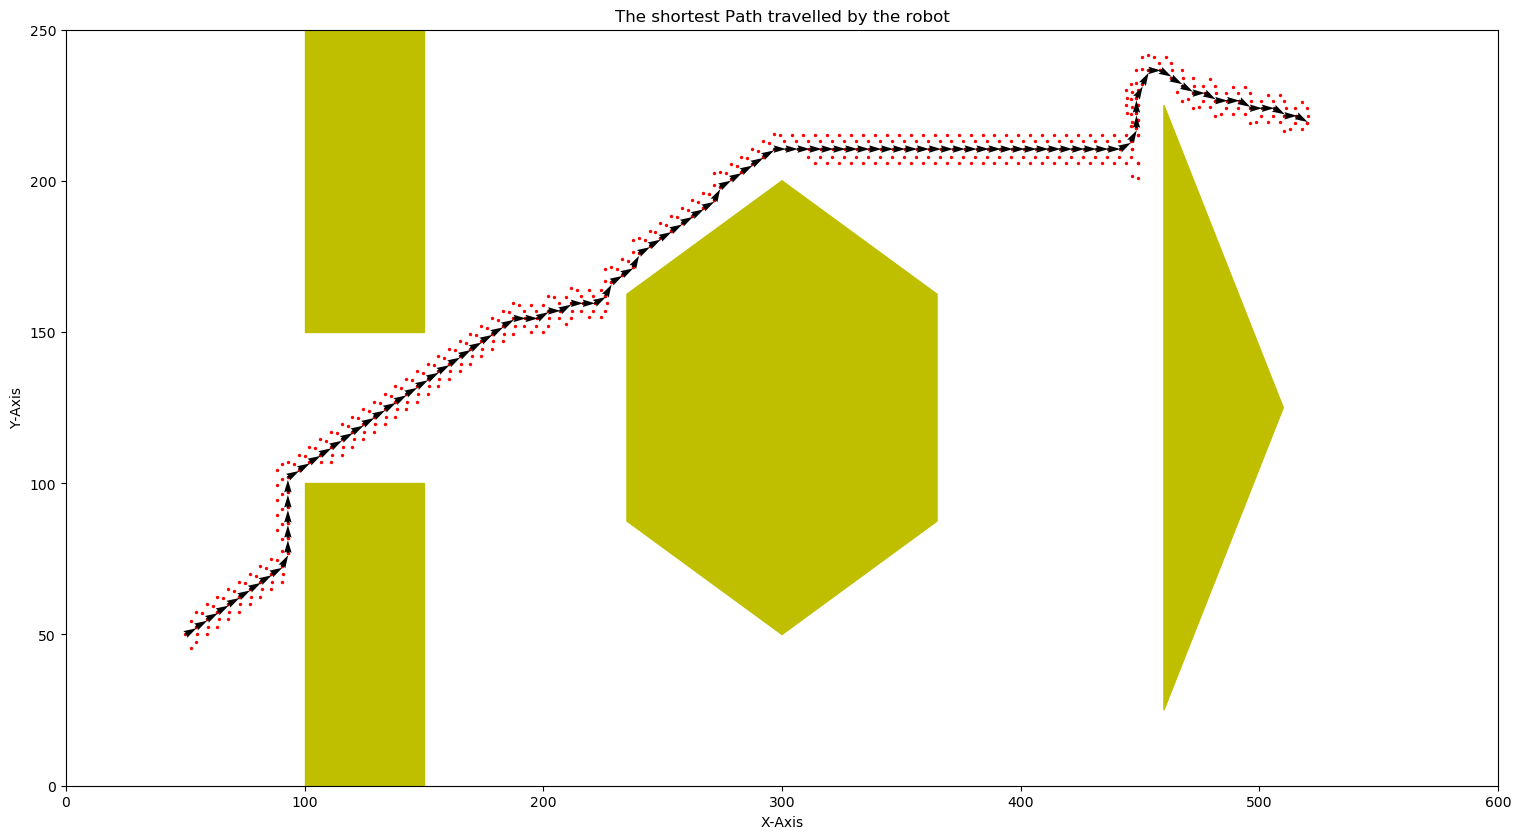
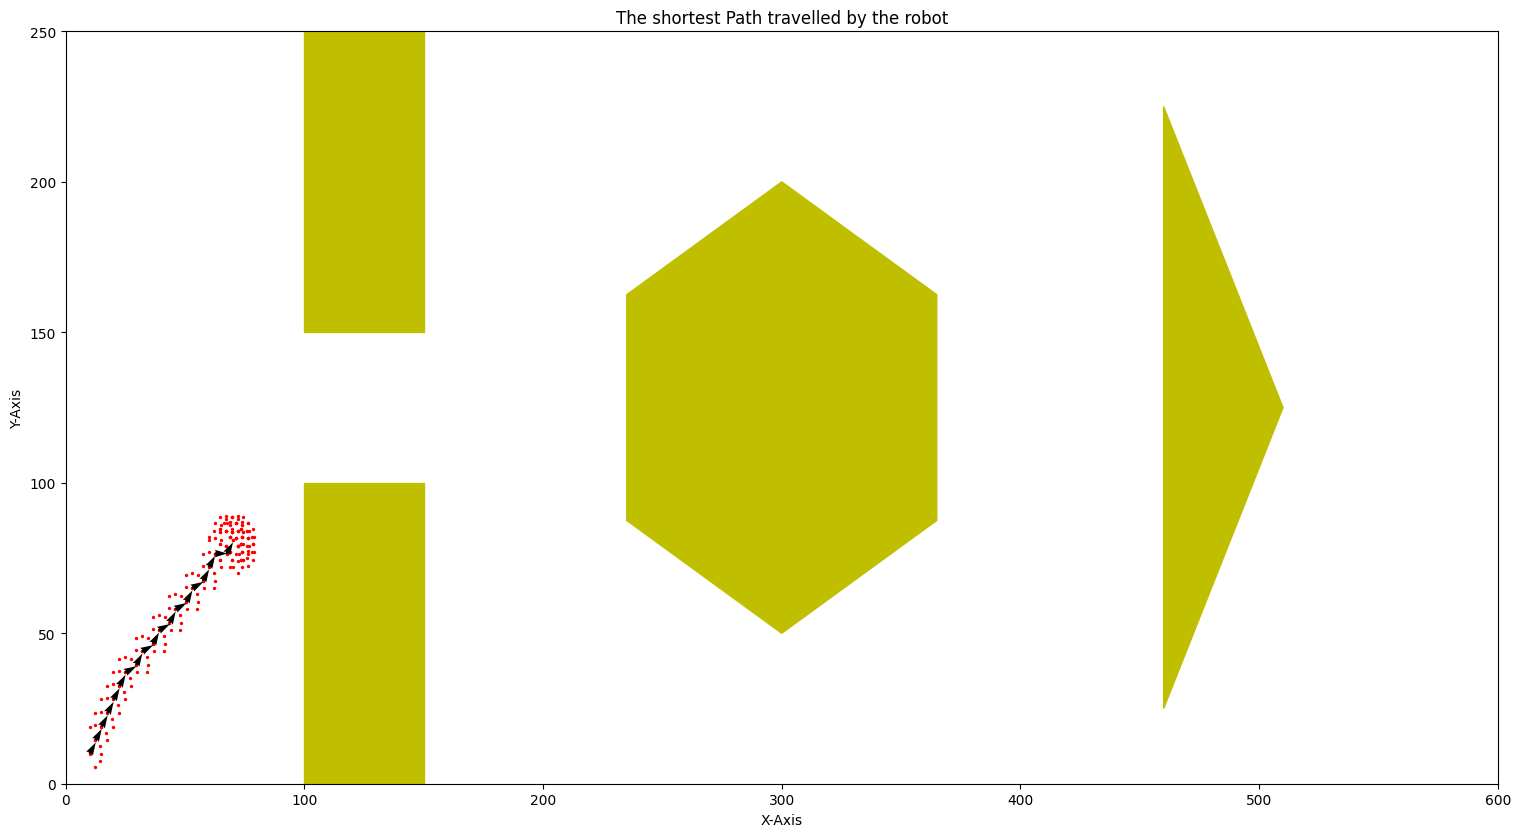
new file created with changes

diff --git a/a_star_sarin_aditi copy.py b/a_star_sarin_aditi copy.py
@@ -1,0 +1,302 @@
+# Git Hub Link: https://github.com/sarinann/A-star-algorithm-for-obstcle-avoidance.git
+
+import matplotlib.pyplot as plt
+import matplotlib.patches as patch
+from queue import PriorityQueue
+import time
+import copy
+import numpy as np
+from math import dist
+import cv2 as cv
+import math
+
+print("Hi!! \n")
+start_time = time.time()
+threshold = 0.5
+robot_radius = int(input("Enter the radius of the robot \n"))
+print("____________________________________________________________")
+step_size = int(input("Enter the stepsize for the robot. Choose from 1 to 10 \n"))
+print("______________________________________________________________________")
+while step_size not in range(1,11):
+    step_size = int(input("\n Enter again a step size from 1 to 10 \n"))
+    print("______________________________________________________________________")
+clearance = int(input("Enter the clearance to be maintained around the obstacles \n"))
+print("______________________________________________________________________")
+
+ul = int(input("Enter the velocity of left wheel \n"))
+print("______________________________________________________________________")
+
+ur = int(input("Enter the velocity of right wheel \n"))
+print("______________________________________________________________________")
+
+#Total amount the boundary needs to be bloated by taking into account robot radius and clearance.
+total_bloat = clearance + robot_radius
+
+# Using OpenCV libraries to create shapes of the polynomials of the obstacles and their map
+def create_polynomial(image, vertices, color, type):
+    vertices = vertices.reshape((-1,1,2))
+    if type == "polygon":
+        cv.fillPoly(image,[vertices],color)
+    else:
+        cv.polylines(image,[vertices],True,color, thickness = total_bloat)
+
+def create_map():
+    #initializing the map
+    map = np.zeros((250,600, 3), dtype="uint8") 
+    white = (255,255,255)
+    # Hexagon
+    hexagon = np.array([[300,50], [365, 87.5], [365,162.5], 
+                       [300,200], [235, 162.5], [235, 87.5]], np.int32)
+    create_polynomial(map, hexagon, white, "polygon")
+    hexagon_bloat = np.array([[300,45], [369, 87.5], [369,162.5], 
+                          [300,205], [235, 162.5], [235, 87.5]], np.int32)
+    create_polynomial(map, hexagon_bloat, white, "Border")
+
+    # Triangle
+    traingle = np.array([[460, 25], [460, 225], [510,125]], np.int32)
+    create_polynomial(map, traingle, white, "polygon")
+    triangle_bloat = np.array([[456, 20], [456, 230], [514,125]], np.int32)
+    create_polynomial(map, triangle_bloat, white, "Border") 
+
+    # Rectangle
+    cv.rectangle(map, (100,0), (150,100), white, -1)
+    cv.rectangle(map, (100,0), (150,100), white, total_bloat)
+    cv.rectangle(map, (100,150), (150,250), white, -1)
+    cv.rectangle(map, (100,150), (150, 250), white, total_bloat)
+    cv.rectangle(map, (-1, -1), (601, 251), white, total_bloat)     
+
+    return cv.resize(map, (int(600/threshold),int(250/threshold)))
+
+#Creating the map and flipping it about Y-Axis to match the origin points 
+map = create_map()
+
+map = cv.flip(map, 0)
+
+def if_obstacle(node):
+    X = int(node[1]/threshold)
+    Y = int(node[0]/threshold)
+  
+    if map[X, Y].any() == np.array([0, 0, 0]).all():
+        bool_value = False
+    elif map[X, Y].all() == np.array([255, 255, 255]).all():
+        bool_value = True
+    else:
+        bool_value = True     
+
+    return bool_value
+#Function to create a node with parameters needed for the algorithm
+def a_star_node_create(total_cost, cost_to_come, parent, node):
+    return (total_cost, cost_to_come, parent, node)
+
+start_point_x = input("Enter the x-coordinate of the start point \n")
+start_point_y = input("Enter the y-coordinate of the start point \n")
+start_point_theta = input("Enter the start orientation \n")
+start = (int(start_point_x), int(start_point_y), int(start_point_theta))
+while if_obstacle((start[0], start[1])):
+    print("These coordinates lie inside the obstacle space. Please enter new values\n")
+    start_point_x = input("Enter the x-coordinate of the start point \n")
+    start_point_y = input("Enter the y-coordinate of the start point \n")
+    start_point_theta = input("Enter the start orientation \n")
+    start = (int(start_point_x), int(start_point_y), int(start_point_theta))
+print("_____________________________________________________________________________")
+goal_point_x = input("Enter the x-coordinate of the goal point \n")
+goal_point_y = input("Enter the y-coordinate of the goal point \n")
+goal_point_orien = input("Enter the goal orientation \n")
+goal = (int(goal_point_x), int(goal_point_y), int(goal_point_orien))
+while if_obstacle((goal[0], goal[1])):
+    print("These coordinates lie inside the obstacle space. Please enter new values\n")
+    goal_point_x = input("Enter the x-coordinate of the goal point \n")
+    goal_point_y = input("Enter the y-coordinate of the goal point \n")
+    goal_point_orien = input("Enter the goal orientation \n")
+    goal = (int(goal_point_x), int(goal_point_y), int(goal_point_orien))
+print("_____________________________________________________________________________")
+goal_x = goal[0]
+goal_y = goal[1]
+
+
+def cost(Xi,Yi,Thetai,UL,UR):
+    t = 0
+    r = 0.038
+    L = 0.354
+    dt = 0.1
+    Xn=Xi
+    Yn=Yi
+    Thetan = 3.14 * Thetai / 180
+
+
+# Xi, Yi,Thetai: Input point's coordinates
+# Xs, Ys: Start point coordinates for plot function
+# Xn, Yn, Thetan: End point coordintes
+    D=0
+    while t<1:
+        t = t + dt
+        Xs = Xn
+        Ys = Yn
+        Delta_Xn = 0.5*r * (UL + UR) * math.cos(Thetan) * dt
+        Delta_Yn = 0.5*r * (UL + UR) * math.sin(Thetan) * dt
+        Thetan += (r / L) * (UR - UL) * dt
+        D=D+ math.sqrt(Delta_Xn**2 + Delta_Yn**2)
+    Thetan = 180 * (Thetan) / 3.14
+    return Xn, Yn, Thetan, D   
+
+
+
+# Defining the 5 moments spanning 120deg  
+def one(node, left_speed, right_speed):
+    modified_node = copy.deepcopy(node)
+    modi_x, modi_y, modi_theta, c2c = cost(modified_node[3][0], modified_node[3][1], modified_node[3][2], left_speed, right_speed)
+
+    parent_node = modified_node[3]
+
+    modi_theta = rounded_value(modi_theta)
+    modi_x = rounded_value(modi_x)
+    modi_y = rounded_value(modi_y)
+    modified_node = (modi_x, modi_y, modi_theta)
+
+    cost_to_go = dist((modi_x, modi_y), (goal_x, goal_y))
+
+    total_cost = c2c + cost_to_go
+
+    passed_node = a_star_node_create(
+        total_cost, c2c, parent_node, modified_node)
+    return passed_node
+
+def rounded_value(input):
+    if input % 0.5 != 0:
+        input = (np.round(input/threshold))*threshold
+    return input
+
+plotting = {}
+def Astar_algoritm(start, goal):
+
+    initial_cost_to_go = np.sqrt((goal[0]-start[0])**2 + (goal[1]-start[1])**2)
+
+    initial_cost = initial_cost_to_go + 0
+
+    zeros = np.zeros((int(600/threshold), int(250/threshold), 12))
+
+    start_pose = a_star_node_create(initial_cost, 0, None, start)
+
+    open_list = PriorityQueue()
+    open_list.put(start_pose)
+
+    visited_nodes_x = []
+    visited_nodes_y = []
+    visited_close_list = {}
+
+    while not open_list.empty():
+
+        current_node = open_list.get()
+        if current_node[3] in visited_close_list:
+            continue
+
+        visited_nodes_x.append(current_node[3][0])
+        visited_nodes_y.append(current_node[3][1])
+
+        visited_close_list[current_node[3]] = current_node[2]
+        theta = current_node[3][2]
+
+        distance_to_goal = np.sqrt(
+            (goal[0] - current_node[3][0])**2 + (goal[1] - current_node[3][1])**2)
+
+        if distance_to_goal <= 1.5:
+            print("Goal has been reached!!!!")
+            print("_____________________________________________________________________________")
+            generated_path = []
+            current_pose = current_node[3]
+            while current_pose is not None:
+                generated_path.append(current_pose)
+                current_pose = visited_close_list[current_pose]
+            # Reverse the path and return
+            return generated_path[::-1], visited_nodes_x, visited_nodes_y
+
+        actions = [[0, ul], [ul,0], [ul, ul], [0, ur], [ur, 0], [ur, ur], [ul, ur], [ur, ul]]
+
+        for action in actions:
+            # Get the modified node and its total cost and cost to come from current node
+            child_node = one(current_node, action[0], action[1])
+            temp_node = child_node[3]
+            # If the node is not in the the visited closed dictionary, then update the parent based on cost
+            if zeros[int(temp_node[0]/threshold)][int(temp_node[1]/threshold)][int(temp_node[2]/30)] == 0:
+                zeros[int(temp_node[0]/threshold)][int(temp_node[1]/threshold)
+                                            ][int(temp_node[2]/30)] = 1
+                if if_obstacle((temp_node[0], temp_node[1])) == False:
+                    total_cost = child_node[0]
+                    if child_node[3] not in visited_close_list:
+                        for i in range(0, (open_list.qsize())):
+                            if open_list.queue[i][3] == child_node[3] and open_list.queue[i][0] > total_cost:
+                                open_list.queue[i][2] = child_node[2]
+                        open_list.put(child_node)
+                        visited_nodes_x.append(child_node[3][0])
+                        visited_nodes_y.append(child_node[3][1])
+    return None
+
+
+generated_path, x_visited, y_visited = Astar_algoritm(start, goal)
+end_time = time.time()
+# print(generated_path)
+
+print(
+    f'Time taken to solve using the A* algorithm: {end_time - start_time} \n')
+print("_____________________________________________________________________________")
+path_x_coord = []
+path_y_coord = []
+for i in range(len(generated_path)):
+    path_x_coord.append(generated_path[i][0])
+    path_y_coord.append(generated_path[i][1])
+
+fig, ax = plt.subplots(figsize=(6, 2.5))
+Triangle = patch.Polygon([(460, 25), (460, 225), (510, 125)], linewidth=1, edgecolor='y', facecolor='y')
+Rectangle_Bottom = patch.Rectangle((100, 150), 50, 100, linewidth=1, edgecolor='y', facecolor='y')
+Rectangle_Top = patch.Rectangle((100, 0), 50, 100, linewidth=1, edgecolor='y', facecolor='y')
+Hexagon = patch.RegularPolygon((300, 125), 6, 75, linewidth=1, edgecolor='y', facecolor='y')
+# Plotting the obstacles
+ax.add_patch(Triangle)
+ax.add_patch(Rectangle_Bottom)
+ax.add_patch(Rectangle_Top)
+ax.add_patch(Hexagon)
+
+# Plotting the path
+plt.xlabel('X-Axis')
+plt.ylabel('Y-Axis')
+plt.title("Visualizing Explored Nodes through A* Algorithm")
+plt.axis([0, 600, 0, 250])
+
+x_temp = 0
+y_temp = 0
+
+# for i in range(len(x_visited)):
+#     if x_temp == goal[0] and y_temp == goal[1]:
+#         break
+#     if len(x_visited) > 100:
+#         plt.scatter(x_visited[0:100], y_visited[0:100], c='blue', s=1)
+#         plt.pause(0.005)
+#         del x_visited[:100]
+#         del y_visited[:100]
+#     else:
+#         for j in range(len(x_visited)):
+#             plt.scatter(x_visited[j], y_visited[j], c='blue', s=1)
+#             plt.pause(0.005)
+#             x_temp = x_visited[j]
+#             y_temp = y_visited[j]
+#             if x_visited[j] == goal[0] and y_visited[j] == goal[1]:
+#                 break
+            
+for j in range(len(x_visited)):
+            plt.scatter(x_visited[j] , y_visited[j] , c='red' , s=2)
+            plt.pause(0.0005)
+            if x_visited[j] == goal[0] and y_visited[j] == goal[1] :
+                break
+
+plt.title("The shortest Path travelled by the robot")
+for i in range(len(path_x_coord)-1):
+    ax.quiver(path_x_coord[i], path_y_coord[i], path_x_coord[i+1]-path_x_coord[i], path_y_coord[i+1]-path_y_coord[i], units='xy' ,scale=1)
+    plt.pause(0.005)
+plt.savefig('Astar algorithm', bbox_inches='tight')
+plt.waitforbuttonpress(timeout=-1)
+plt.show
+# plt.show(block=True)
+
+
+
+

diff --git a/Cost.py b/Cost.py
@@ -1,0 +1,39 @@
+import matplotlib.pyplot as plt
+import numpy as np
+import math
+
+def cost(Xi,Yi,Thetai,UL,UR):
+    t = 0
+    r = 0.038
+    L = 0.354
+    dt = 0.1
+    Xn=Xi
+    Yn=Yi
+    Thetan = 3.14 * Thetai / 180
+
+
+# Xi, Yi,Thetai: Input point's coordinates
+# Xs, Ys: Start point coordinates for plot function
+# Xn, Yn, Thetan: End point coordintes
+    D=0
+    while t<1:
+        t = t + dt
+        Xs = Xn
+        Ys = Yn
+        Delta_Xn = 0.5*r * (UL + UR) * math.cos(Thetan) * dt
+        Delta_Yn = 0.5*r * (UL + UR) * math.sin(Thetan) * dt
+        Thetan += (r / L) * (UR - UL) * dt
+        D=D+ math.sqrt(Delta_Xn**2 + Delta_Yn**2)
+    Thetan = 180 * (Thetan) / 3.14
+    return Xn, Yn, Thetan, D
+    
+
+actions=[[5,5], [10,10],[5,0],[0,5],[5,10],[10,5]]
+        
+for action in actions:
+     k=cost(0,0,45, action[0],action[1])      # (0,0,45) hypothetical start configuration, this dosn't matter for calucating the edges'costs
+     print(k[3])
+  
+ 
+
+    
